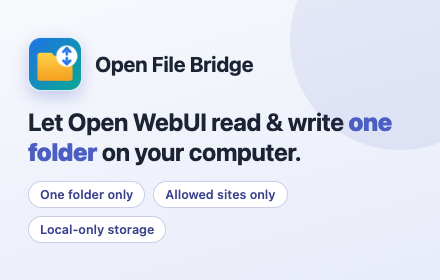
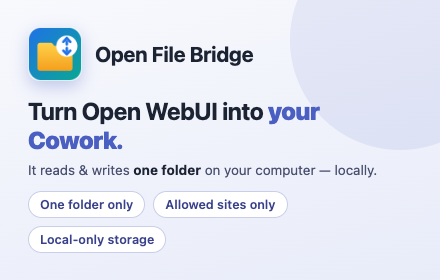
assets(cws): promo tile carries the Cowork tagline (headline + one-folder subline, pills unchanged) + CWS detailed description leads with the same line — vision-checked; zip unaffected

Changed region(s): [[0.0591, 0.3429, 0.9159, 0.9143], [0.2068, 0.1429, 0.5909, 0.2857], [0.0591, 0.0857, 0.2068, 0.3429]]

diff --git a/docs/DEVNOTES.md b/docs/DEVNOTES.md
@@ -3049,3 +3049,10 @@ on "your Cowork.", same three pills; social keeps gray bg + repo URL
 bottom-right), both glm-vision SHIP. NOTE: the GitHub repo's actual
 social preview must be re-uploaded in repo Settings → Social preview
 (no REST API for it) — Dandan's step after the next push.
+
+Session #46 addendum 2 (2026-09-13): promo tile aligned with the Cowork
+tagline — headline now "Turn Open WebUI into your Cowork." + subline
+"reads & writes one folder on your computer — locally" (three safety
+pills unchanged); CWS detailed description in CHROME-WEB-STORE.md leads
+with the same line. Tile re-rendered from /tmp/ofb-shots/tile.html,
+glm-vision SHIP. No extension/ change — zip 3.3.1 unaffected.

diff --git a/docs/CHROME-WEB-STORE.md b/docs/CHROME-WEB-STORE.md
@@ -29,8 +29,8 @@ the Microsoft Store, not the CWS).
 
 ### Detailed description (paste into the store)
 
-> Open File Bridge connects your self-hosted Open WebUI to ONE folder on
-> your computer — the folder you pick. Your AI chat can then list, read,
+> Turn Open WebUI into your Cowork — one that works in ONE folder on your
+> own computer: the folder you pick. Your AI chat can then list, read,
 > write, search, OCR, and convert files in that folder, while everything
 > stays on your machine.
 >
